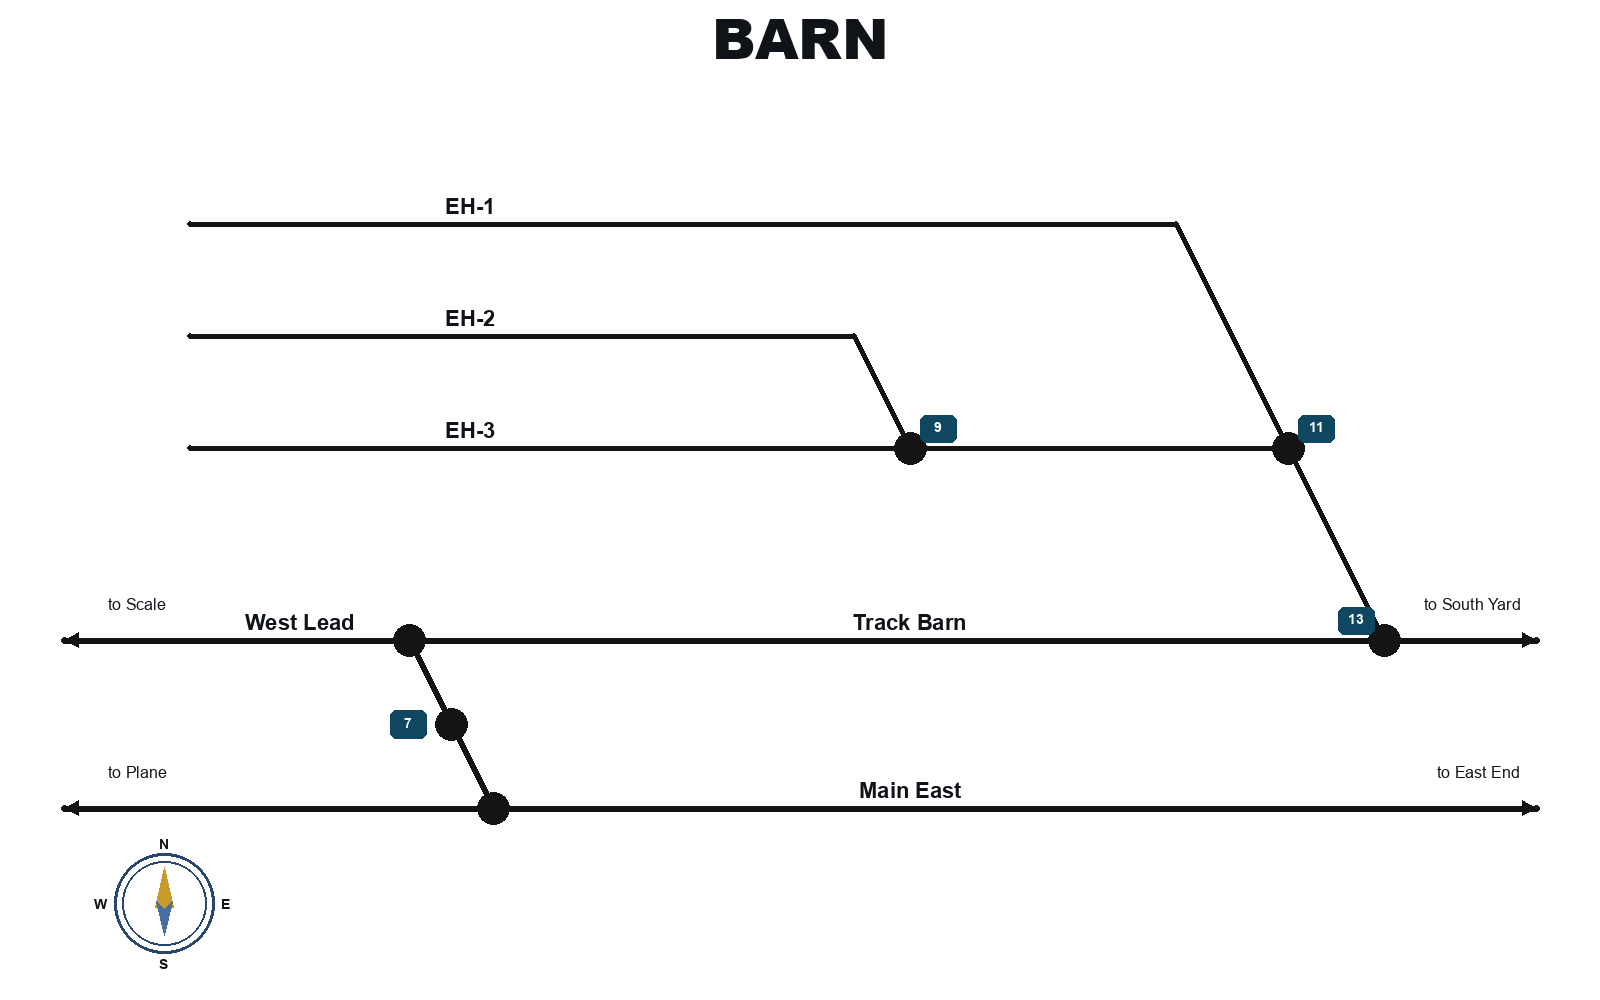
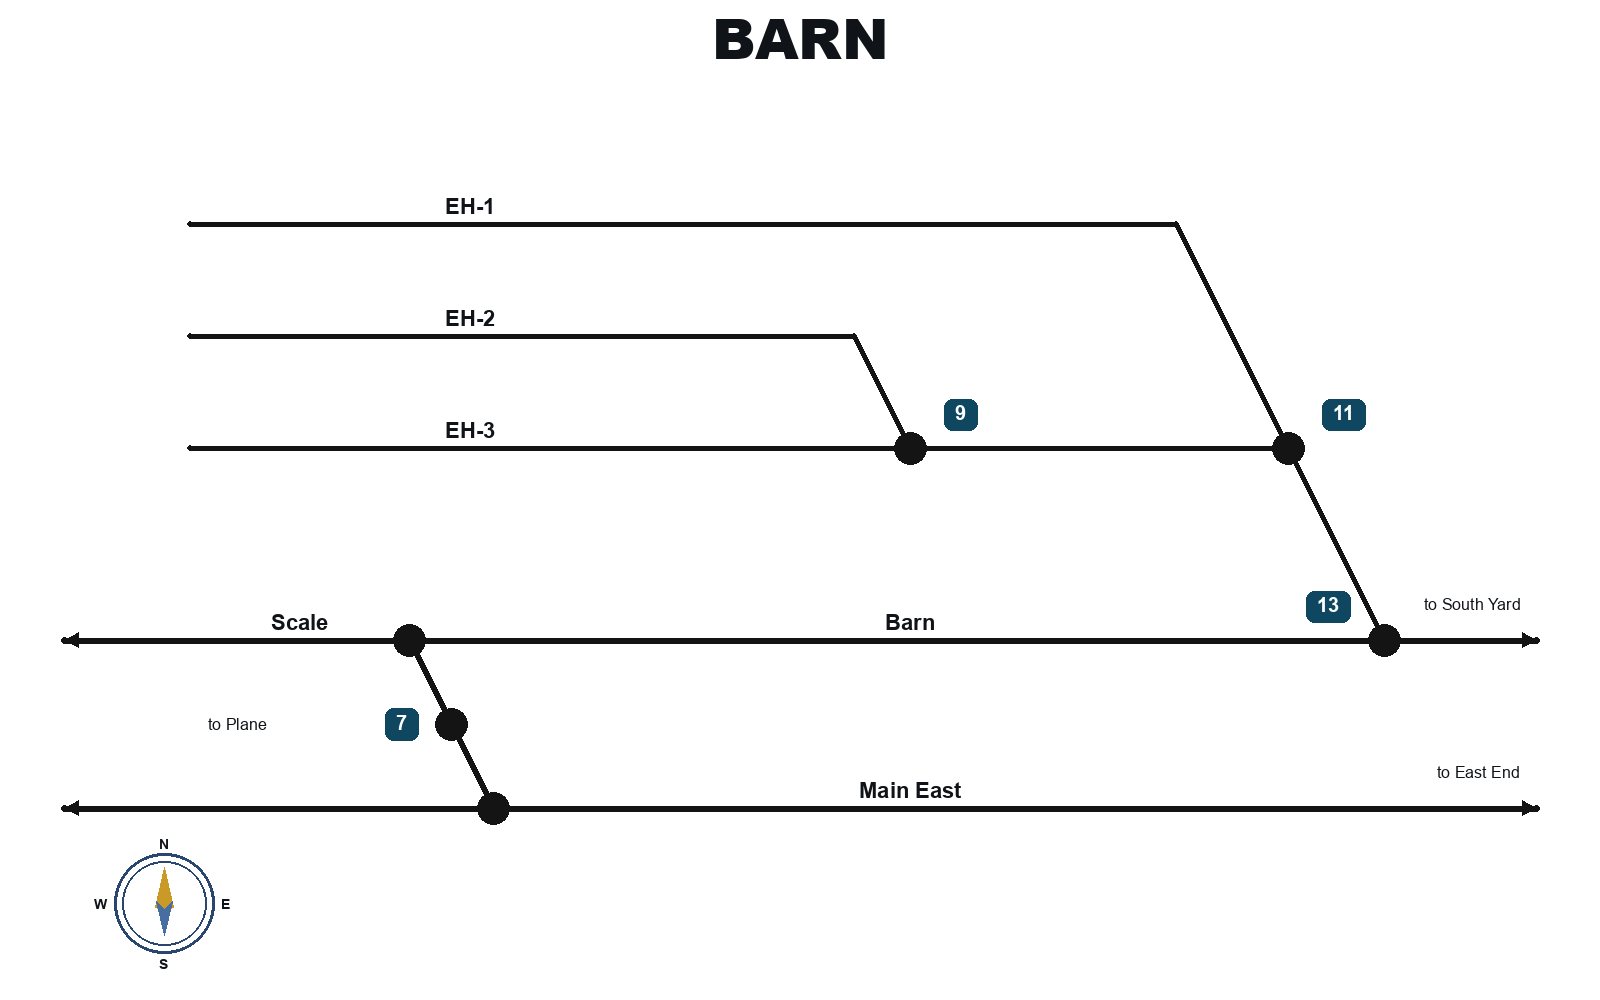
Rename Barn sheet tracks to Scale and Barn, and pull the switch pills off the frogs.
Drop the to-Scale callout and sit to-Plane in the gap between the two mains.

diff --git a/cats/scripts/render_barn_station_map.py b/cats/scripts/render_barn_station_map.py
@@ -38,8 +38,9 @@ TRACK = (20, 20, 20)
 INK = (16, 20, 24)
 BADGE = (15, 71, 97)  # same teal as SM-02…SM-05
 BADGE_INK = (255, 255, 255)
-BADGE_H = 27
 DOT_R = 16
+# Clear air between the frog and the pill (103/111 sit off the circle, not on it).
+BADGE_GAP = 18
 COMPASS_RING = (40, 70, 110)
 COMPASS_GOLD = (201, 154, 40)
 COMPASS_N = (70, 110, 160)
@@ -121,24 +122,25 @@ def _dot(d, pt, r=DOT_R):
 
 
 def _badge_near(d, pt, text, font, corner: str = "ne"):
-    """Teal switch pill, same size/offset language as 103 / 110 / 111."""
+    """Teal switch pill off the frog, same language as 103 / 110 / 111."""
     box = d.textbbox((0, 0), text, font=font)
-    tw = box[2] - box[0]
-    w = max(tw + 18, 36)
-    h = BADGE_H
+    tw, th = box[2] - box[0], box[3] - box[1]
+    w = tw + 22
+    h = th + 16
     cx, cy = pt
+    gap = BADGE_GAP
     if corner == "ne":
-        x = cx + DOT_R - 6
-        y = cy - DOT_R - h + 10
+        x = cx + DOT_R + gap
+        y = cy - DOT_R - h - 2
     elif corner == "nw":
-        x = cx - DOT_R - w + 6
-        y = cy - DOT_R - h + 10
+        x = cx - DOT_R - w - gap
+        y = cy - DOT_R - h - 2
     elif corner == "w":
-        x = cx - DOT_R - w - 10
+        x = cx - DOT_R - w - gap
         y = cy - h / 2
     else:
         raise ValueError(corner)
-    d.rounded_rectangle([x, y, x + w, y + h], radius=6, fill=BADGE)
+    d.rounded_rectangle([x, y, x + w, y + h], radius=8, fill=BADGE)
     d.text((x + w / 2, y + h / 2 - 1), text, font=font, fill=BADGE_INK, anchor="mm")
 
 
@@ -171,7 +173,7 @@ def render(out: Path) -> None:
     f_title = _font(56, black=True)
     f_track = _font(22, bold=True)
     f_dest = _font(16)
-    f_num = _font(14, bold=True)
+    f_num = _font(20, bold=True)
 
     # Official SM titles sit at y≈16 with 42 px ink (Arial Black 56).
     d.text((W / 2, 37), "BARN", font=f_title, fill=INK, anchor="mm")
@@ -203,15 +205,20 @@ def render(out: Path) -> None:
     _badge_near(d, SW13, "13", f_num, "nw")
 
     gap = 10
-    d.text((SW7_TOP[0] - 0.55 * IN, Y_BARN - gap), "West Lead", font=f_track, fill=INK, anchor="ms")
-    d.text((4.55 * IN, Y_BARN - gap), "Track Barn", font=f_track, fill=INK, anchor="ms")
+    d.text((SW7_TOP[0] - 0.55 * IN, Y_BARN - gap), "Scale", font=f_track, fill=INK, anchor="ms")
+    d.text((4.55 * IN, Y_BARN - gap), "Barn", font=f_track, fill=INK, anchor="ms")
     d.text((4.55 * IN, Y_MAIN - gap), "Main East", font=f_track, fill=INK, anchor="ms")
     d.text((2.35 * IN, Y_EH1 - gap), "EH-1", font=f_track, fill=INK, anchor="ms")
     d.text((2.35 * IN, Y_EH2 - gap), "EH-2", font=f_track, fill=INK, anchor="ms")
     d.text((2.35 * IN, Y_EH3 - gap), "EH-3", font=f_track, fill=INK, anchor="ms")
 
-    d.text((X_WEST + 0.22 * IN, Y_BARN - 36), "to Scale", font=f_dest, fill=INK, anchor="lm")
-    d.text((X_WEST + 0.22 * IN, Y_MAIN - 36), "to Plane", font=f_dest, fill=INK, anchor="lm")
+    d.text(
+        ((X_WEST + SW7_TOP[0]) / 2, (Y_BARN + Y_MAIN) / 2),
+        "to Plane",
+        font=f_dest,
+        fill=INK,
+        anchor="mm",
+    )
     d.text((X_EAST - 0.08 * IN, Y_BARN - 36), "to South Yard", font=f_dest, fill=INK, anchor="rm")
     d.text((X_EAST - 0.08 * IN, Y_MAIN - 36), "to East End", font=f_dest, fill=INK, anchor="rm")
 
